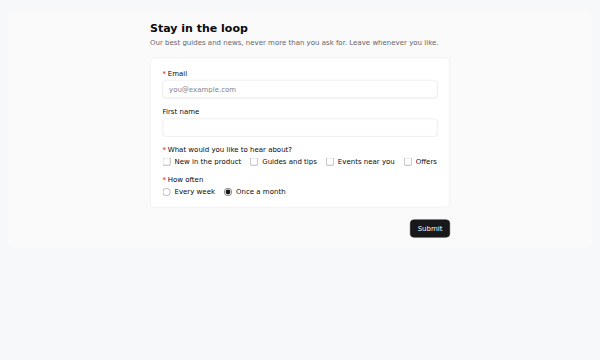
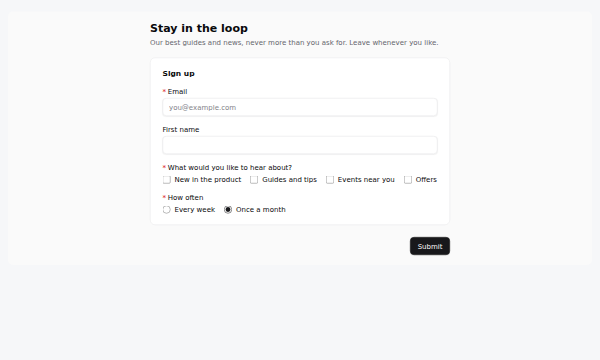
templates: open in their designer titled, nothing untitled, checks clear

diff --git a/e2e/templates.spec.ts b/e2e/templates.spec.ts
@@ -208,3 +208,33 @@ test.describe('what the templates’ cards say to try', () => {
     await expect(node(page, 'f-progress')).toContainText('33%');
   });
 });
+
+/**
+ * "Change it": each template opened in its designer — a survey's steps in the survey editor, a screen or a record's
+ * sheet in the screen editor, as the Templates page links them — reads as finished before anything is touched: its own
+ * title in the name box and the tab, no part left "Untitled", no name from inside an app (an ERP's, a model's) in what
+ * the designer says, and nothing for the designer's checks to raise.
+ */
+test.describe('each template, opened in its designer untouched', () => {
+  const pageOf = (id: string) => JSON.parse(readFileSync(join(TEMPLATES, `${id}.page.json`), 'utf8'));
+  for (const t of INDEX) {
+    test(`${t.id}: titled, nothing untitled or internal, and the designer’s checks pass`, async ({ page }) => {
+      const problems: string[] = [];
+      page.on('pageerror', (error) => problems.push(error.message));
+      const shown = pageOf(t.id);
+      const editor = shown.layout.type === 'wizard' ? 'designer' : 'screen';
+      await page.setViewportSize({ width: 1440, height: 900 });
+      await page.goto(`/${editor}/?start=template-${t.id}`);
+      await expect(page.locator('[data-checks]')).toBeVisible();
+      await expect(page.locator('input').first()).toHaveValue(shown.title);
+      await expect(page).toHaveTitle(`${shown.title} — Fieldia designer`);
+      await expect(page.getByText(/untitled/i).filter({ visible: true })).toHaveCount(0);
+      expect(await page.locator('body').innerText()).not.toMatch(/Flectra|Sherkety|res\.partner|account\.move/);
+      expect(await page.evaluate(() => (window as any).fieldiaDesigner.designer.checks())).toEqual([]);
+      // The Checks button says so: a tick, no count.
+      await expect(page.locator('[data-checks] .fd-checks-count')).toHaveText('✓');
+      if (t.id === 'invoice' || t.id === 'customer-feedback') await screen(page, `template-${t.id}-designer`, { viewport: true });
+      expect(problems).toEqual([]);
+    });
+  }
+});

diff --git a/demos/screen/main.ts b/demos/screen/main.ts
@@ -169,10 +169,16 @@ const widgets = { ...APP_WIDGETS, ...codeWidgets };
 const onMaps = { listViews: demoListViews, maps: demoMaps, sampleCentre: { lat: 30.0444, lng: 31.2357 } };
 const demo = { designer, store, handle: mountScreenEditor(app, { designer, skin, dataSource, widgets, assistant, ...onMaps }), reopen };
 opened();
+// The tab names the page being made, not the tool it is made in: “Invoice — Fieldia designer”.
+const named = () => (document.title = `${demo.designer.getPage().title || say('A new page', 'صفحة جديدة')} — Fieldia designer`);
+named();
+designer.subscribe(named);
 /** Close the editor and open the page again from the store, as an app does the next day — or another page, a saved form opened. */
 async function reopen(id = demo.designer.getPage().id) {
   demo.handle.destroy();
   demo.designer = await createDesigner.open(id, store, { model, lists, kinds: appKinds(locale as Locale | undefined), openForm, locale, regionSets: DEMO_REGION_SETS });
   demo.handle = mountScreenEditor(app, { designer: demo.designer, skin, dataSource, widgets, assistant, ...onMaps });
+  named();
+  demo.designer.subscribe(named);
 }
 Object.assign(window, { fieldiaDesigner: demo });

diff --git a/demos/designer/main.ts b/demos/designer/main.ts
@@ -32,4 +32,8 @@ const opened = timeFirstPaint('designer');
 const designer = createDesigner({ page: start, store, lists: arabic ? APP_LISTS_AR : APP_LISTS, kinds: appKinds(locale as Locale | undefined), assistant, locale });
 const handle = mountSurveyEditor(document.getElementById('app') as HTMLElement, { designer, skin: (params.get('skin') as Skin) ?? 'outlined', dataSource: sampleDataSource(), widgets: APP_WIDGETS });
 opened();
+// The tab names the page being made, not the tool it is made in: “Job application — Fieldia designer”.
+const named = () => (document.title = `${designer.getPage().title || (arabic ? 'صفحة جديدة' : 'A new page')} — Fieldia designer`);
+named();
+designer.subscribe(named);
 Object.assign(window, { fieldiaDesigner: { designer, store, handle } });
